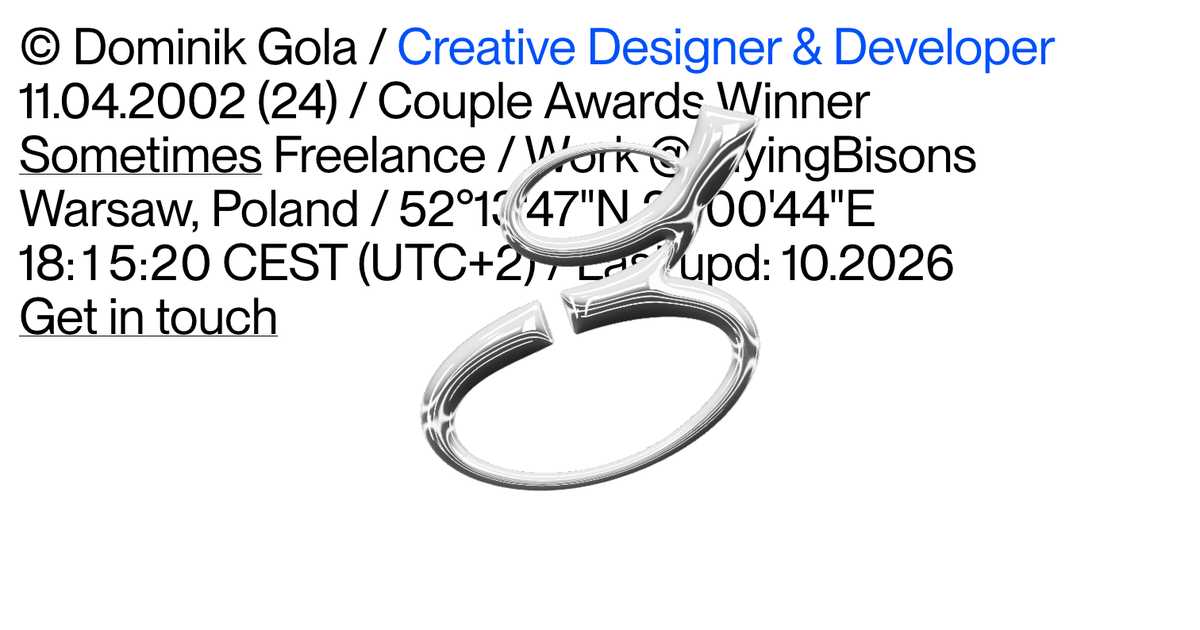
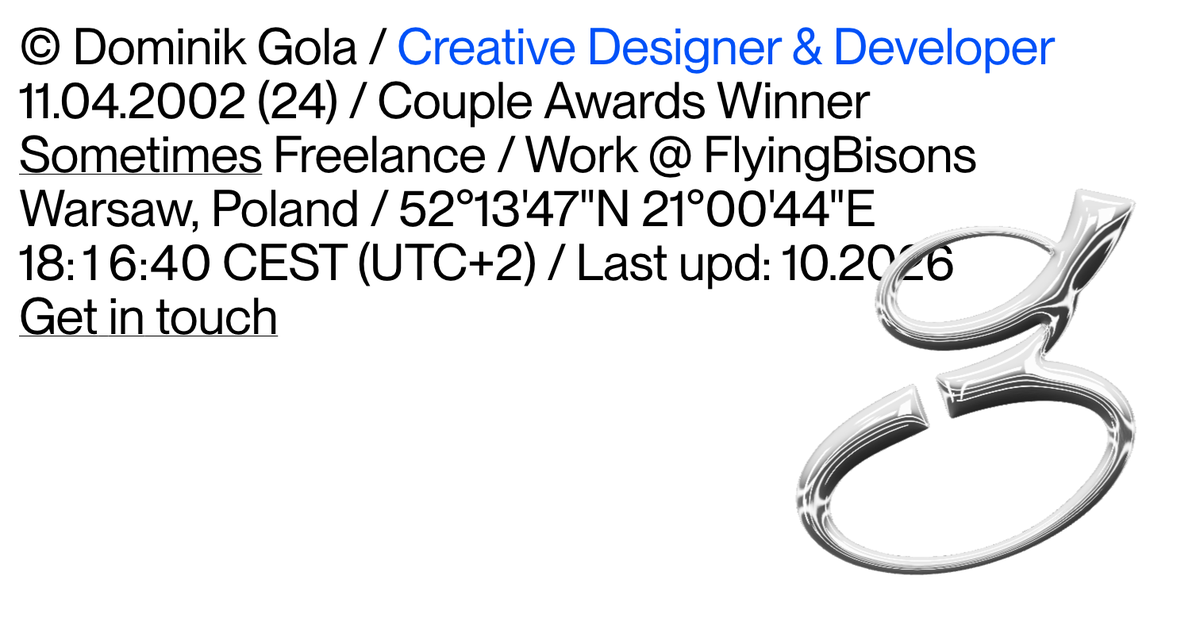
Share image: G in the bottom-right corner

Changed region(s): [[0.6475, 0.3016, 0.9558, 0.9349], [0.3392, 0.1508, 0.6475, 0.7841], [0.0925, 0.3921, 0.1542, 0.4524]]

diff --git a/CLAUDE.md b/CLAUDE.md
@@ -25,7 +25,7 @@ He judges by eye and by how motion *feels*: after any visual change, look at it 
   - `src/sfx.js` — the synthesized sounds, all through that context (nothing plays before the first click/key: browser rule): `tick()` (Drafts ring detents; Home "6+ years" records on mouse hover — he wanted exactly the Drafts click there, not the blip; it used to tick on scroll), `hover()` (very soft glassy blip on `.pill`, `.works__more`, `.footer__cta`, `.dr__arrow`, `[data-sfx-hover]`; mouse only, delegated in `initNav`), `knock(pan, level, pitch)` (outro logo hitting an edge: soft chrome "tok", base volume .07 — he asked for it quieter, panned to the side it hit, volume = (uncovered share of the outro)², so it's only really audible once the outro is in view).
 - **Cursor** — `src/cursor.js` (started in `initNav`, so every page): the system arrow stays, an 8 px dot trails just above the arrow tip, a little to the left (−5/−9 px, trails with a soft lag: `FOLLOW` 9/s — 28 felt glued to the mouse), solid white with `mix-blend-mode: difference` only → black on white, white on black (a backdrop-blur disc was tried and removed on request). Grows ×2.3 over clickable things (links, buttons, inputs, anything with `cursor: pointer`), shrinks a bit on press. Mouse/fine-pointer devices only. Styles at the end of `base.css`.
 - **Favicon** — chrome G (rendered from the live `CURRENT_LOOK`) on the site blue #0051f8, rounded square: `public/favicon.ico` (16/32/48), `favicon.png` (64), `icon-512.png`, `apple-touch-icon.png` (180, full bleed — iOS rounds it). Links are injected into every page's `<head>` by the `shared-nav` plugin.
-- **Link previews** — `public/og.png` (1200 × 630) = a capture of the real Home hero (1512 × 794, reduced motion so the G faces front) with the chrome G scaled ×1.45, no nav, no paragraphs, no Works strip, headline 24 px from the top; downscaled. Open Graph + Twitter tags (title from each page's `<title>`, description per page in `SHARE`, absolute URLs on https://domgola.pl) are injected by the `shared-nav` plugin (`shareTags` in vite.config.js).
+- **Link previews** — `public/og.png` (1200 × 630) = a capture of the real Home hero (1512 × 794, reduced motion so the G faces front) with the chrome G ×1.45 in the bottom-right corner, no nav, no paragraphs, no Works strip, headline 24 px from the top; downscaled. Open Graph + Twitter tags (title from each page's `<title>`, description per page in `SHARE`, absolute URLs on https://domgola.pl) are injected by the `shared-nav` plugin (`shareTags` in vite.config.js).
 - **Fonts** — `src/styles/fonts.css`: PP Neue Montreal (all supplied weights, woff2 converted from Dominik's TTFs; Book = 350), IBM Plex Sans Arabic (supplied), IBM Plex Mono via `@fontsource`. Tokens `--font-display`, `--font-mono`, `--font-plex` in `src/styles/base.css`.
 - **Smooth scroll** — Lenis (`src/smooth-scroll.js`, `lerp 0.09`), on Home and About. It drives native scroll, so `scrollY`/`scroll` listeners keep working. `window.__lenis` for tests. Not on Drafts (no document scroll).
 - **Page transitions** — one dark blind ("roleta"), identical on every page (he rejected per-page view-transition variants as inconsistent). `src/curtain.js`: a click on an internal link rolls `.curtain` up from the bottom (750 ms), sets `sessionStorage['dg:curtain']` and navigates; `src/curtain-head.js` (inlined into `<head>` by the plugin) covers the new page from the first paint; the page calls `pageReady(promise)` (Home: fonts, About: 3D scene up, Drafts: images or 1.5 s; max 3.5 s) and the blind keeps rolling up and off the top (900 ms, `cubic-bezier(.76,0,.24,1)`). Drafts starts its intro camera move as the blind lifts (`revealed`). Same-page links just glide (Lenis). No cross-document View Transitions anymore. Speculation-rules prefetch on hover keeps the covered moment short.
